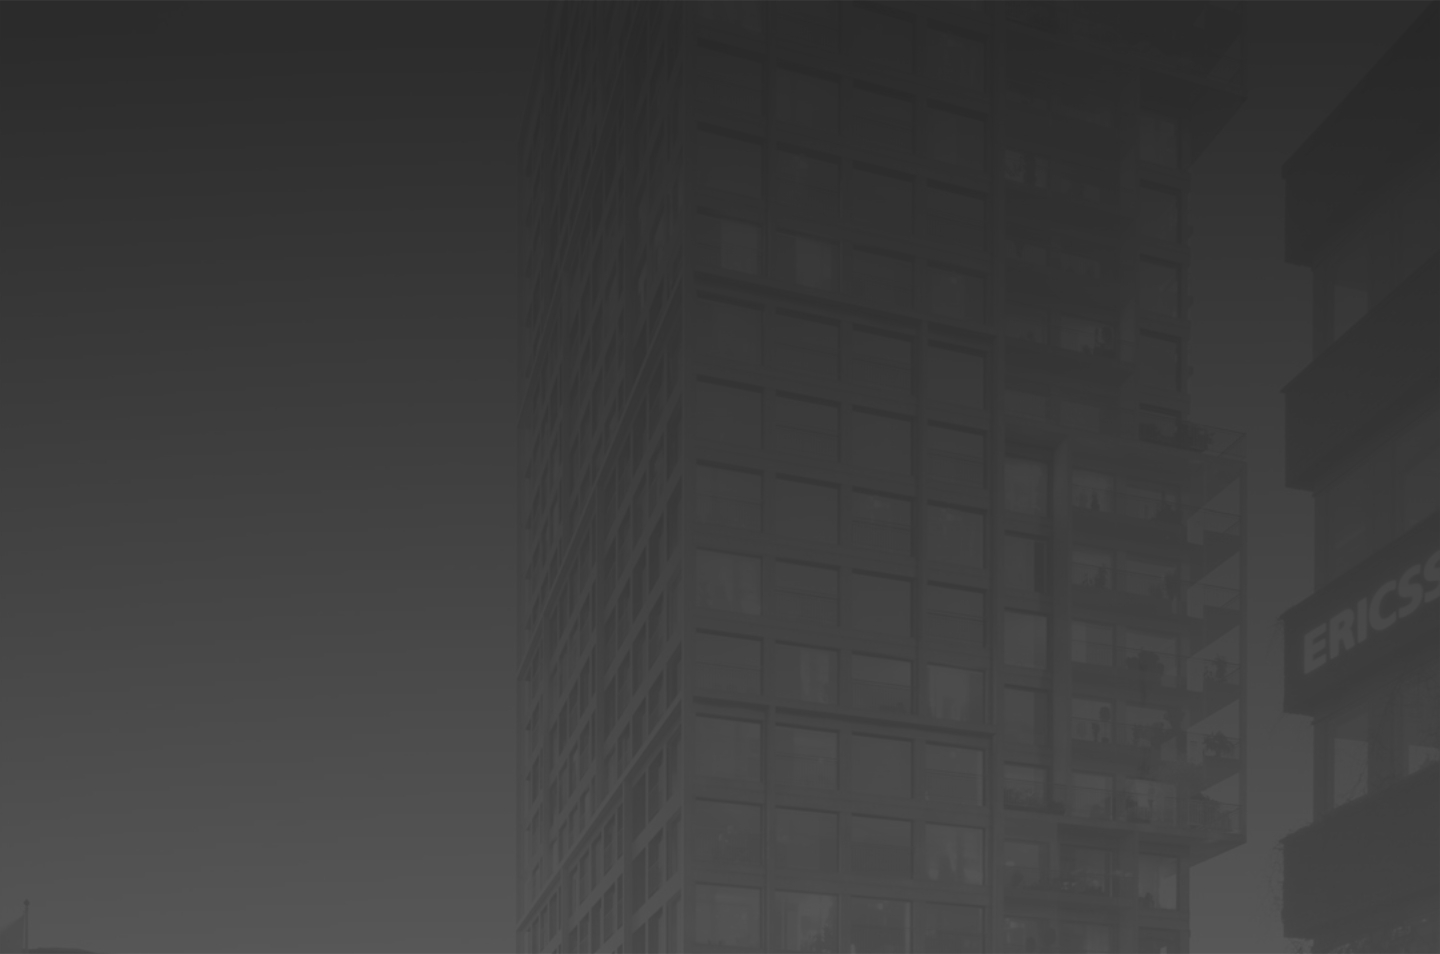
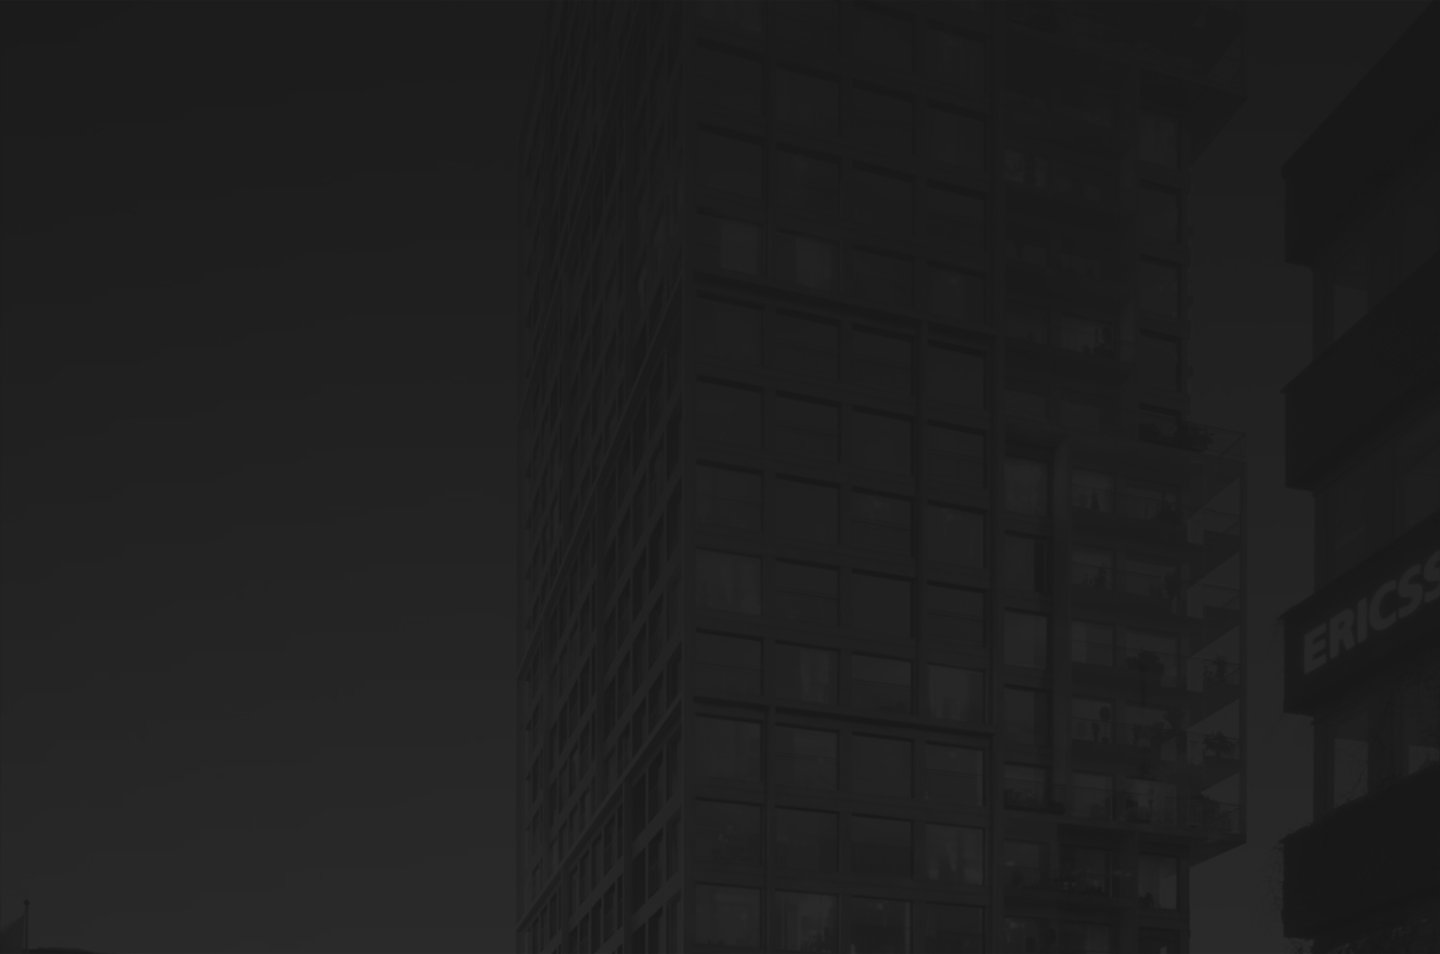
В стили добавлена обертка для questions и map Добавлен раздел map и прописаны к нему стили Добавлен раздел footer - стили из header Перескачана картинка для раздела questions и map

diff --git a/pages/index.html b/pages/index.html
@@ -286,50 +286,66 @@
       </div>
     </section>
     <!-- end clients -->
-
-    <!-- start questions -->
-    <section class="questions">
-      <h2 class="questions__title">have any questions?</h2>
-
-      <div class="questions__wrap">
-        <label class="questions__form one">
-          <p class="questions__form_name form__text">Name</p>
-          <input type="text" class="questions__form_input form__input" placeholder="What is your name:">
+    <div class="wrapper__bg">
+      <!-- start questions -->
+      <section class="questions">
+        <h2 class="questions__title">have any questions?</h2>
+        <div class="questions__wrap">
+          <label class="questions__form one">
+            <p class="questions__form_name form__text">Name</p>
+            <input type="text" class="questions__form_input form__input" placeholder="What is your name:">
+          </label>
+          <label class="questions__form two">
+            <p class="questions__form_name form__text">Phone</p>
+            <input type="text" class="questions__form_input form__input" placeholder="Your phone number:">
+          </label>
+          <label class="questions__form three">
+            <p class="questions__form_name form__text">Question</p>
+            <input type="text" class="questions__form_input form__input" placeholder="I want to know:">
+          </label>
+        </div>
+        <label class="questions__checkbox">
+          <input type="checkbox" class="questions__checkbox_input form__checkbox">
+          <span class="questions__checkbox_fake form__checkbox-fake"></span>
+          <span class="questions__checkbox_text form__checkbox-text">I agree to the processing of personal data</span>
         </label>
-
-        <label class="questions__form two">
-          <p class="questions__form_name form__text">Phone</p>
-          <input type="text" class="questions__form_input form__input" placeholder="Your phone number:">
-        </label>
-
-        <label class="questions__form three">
-          <p class="questions__form_name form__text">Question</p>
-          <input type="text" class="questions__form_input form__input" placeholder="I want to know:">
-        </label>
-      </div>
-
-      <label class="questions__checkbox">
-        <input type="checkbox" class="questions__checkbox_input form__checkbox">
-        <span class="questions__checkbox_fake form__checkbox-fake"></span>
-        <span class="questions__checkbox_text form__checkbox-text">I agree to the processing of personal data</span>
-      </label>
-
-      <button class="questions__button button__orange">
-        <p class="questions__button_text">Submit</p>
-      </button>
-
-    </section>
-    <!-- start questions -->
-
+        <button class="questions__button button__orange">
+          <p class="questions__button_text">Submit</p>
+        </button>
+      </section>
+      <!-- end questions -->
+      <!-- start map -->
+      <section class="map">
+        <p class="map__desc">Rostov-on-Don, Nansen St., 239 Shopping Center
+          Decorum Tel +7 (928) 768 32 29</p>
+        <div class="map__links">
+          <a href="#!" class="map__links_link"><img src="../image/svg/email.svg"></a>
+          <a href="#!" class="map__links_link"><img src="../image/svg/instagram.svg"></a>
+        </div>
+        <img src="../image/map.png" alt="Map" class="map__img">
+      </section>
+      <!-- end map -->
+    </div>
   </main>
   <!-- end main -->
 
-
-
-
-
-
-
+  <!-- start footer -->
+  <footer class="footer header">
+    <a href="#!" class="footer__logo header__logo">IC "Repair Design Project"</a>
+    <div class="footer__links header__links">
+      <a href="#!" class="footer__links_link header__links_link">HOME</a>
+      <a href="#!" class="footer__links_link header__links_link">PROJECTS</a>
+      <a href="#!" class="footer__links_link header__links_link">MEASUREMENT</a>
+      <a href="#!" class="footer__links_link header__links_link">TEAM</a>
+      <a href="#!" class="footer__links_link header__links_link">REVIEWS</a>
+      <a href="#!" class="footer__links_link header__links_link">CONTACTS</a>
+    </div>
+    <p class="footer__phone header__phone">+7 (928) 768-32-39</p>
+    <button class="footer__phone header__button button__orange">
+      <p class="footer__phone header__button_text">Request a call</p>
+    </button>
+  </footer>
+  <!-- end footer -->
 </body>
 
 </html>

diff --git a/pages/style.css b/pages/style.css
@@ -809,10 +809,16 @@ span {
 
 /* end cliens */
 
+.wrapper__bg {
+  background: url(../image/bg-map.jpeg) no-repeat center;
+  background-size: cover;
+  padding: 52px 260px 65px;
+}
+
 /* start questions */
 
 .questions {
-  margin: -222px auto 52px;
+  margin: -274px auto 52px;
   max-width: 883px;
   background: rgb(24, 24, 24);
   padding: 34px 181px;
@@ -898,3 +904,32 @@ span {
 }
 
 /* end questions */
+
+/* start map */
+
+.map__desc {
+  color: rgb(227, 184, 115);
+  font-family: Yeseva One;
+  font-size: 20px;
+  font-weight: 400;
+  line-height: 23px;
+  text-align: center;
+  text-transform: uppercase;
+  max-width: 589px;
+  margin: 0 auto;
+}
+
+.map__links {
+  display: flex;
+  flex-flow: row nowrap;
+  justify-content: center;
+  gap: 15px;
+  margin-top: 26px;
+  margin-bottom: 43px;
+}
+
+.map__img {
+  margin-bottom: 65px;
+}
+
+/* end map */
